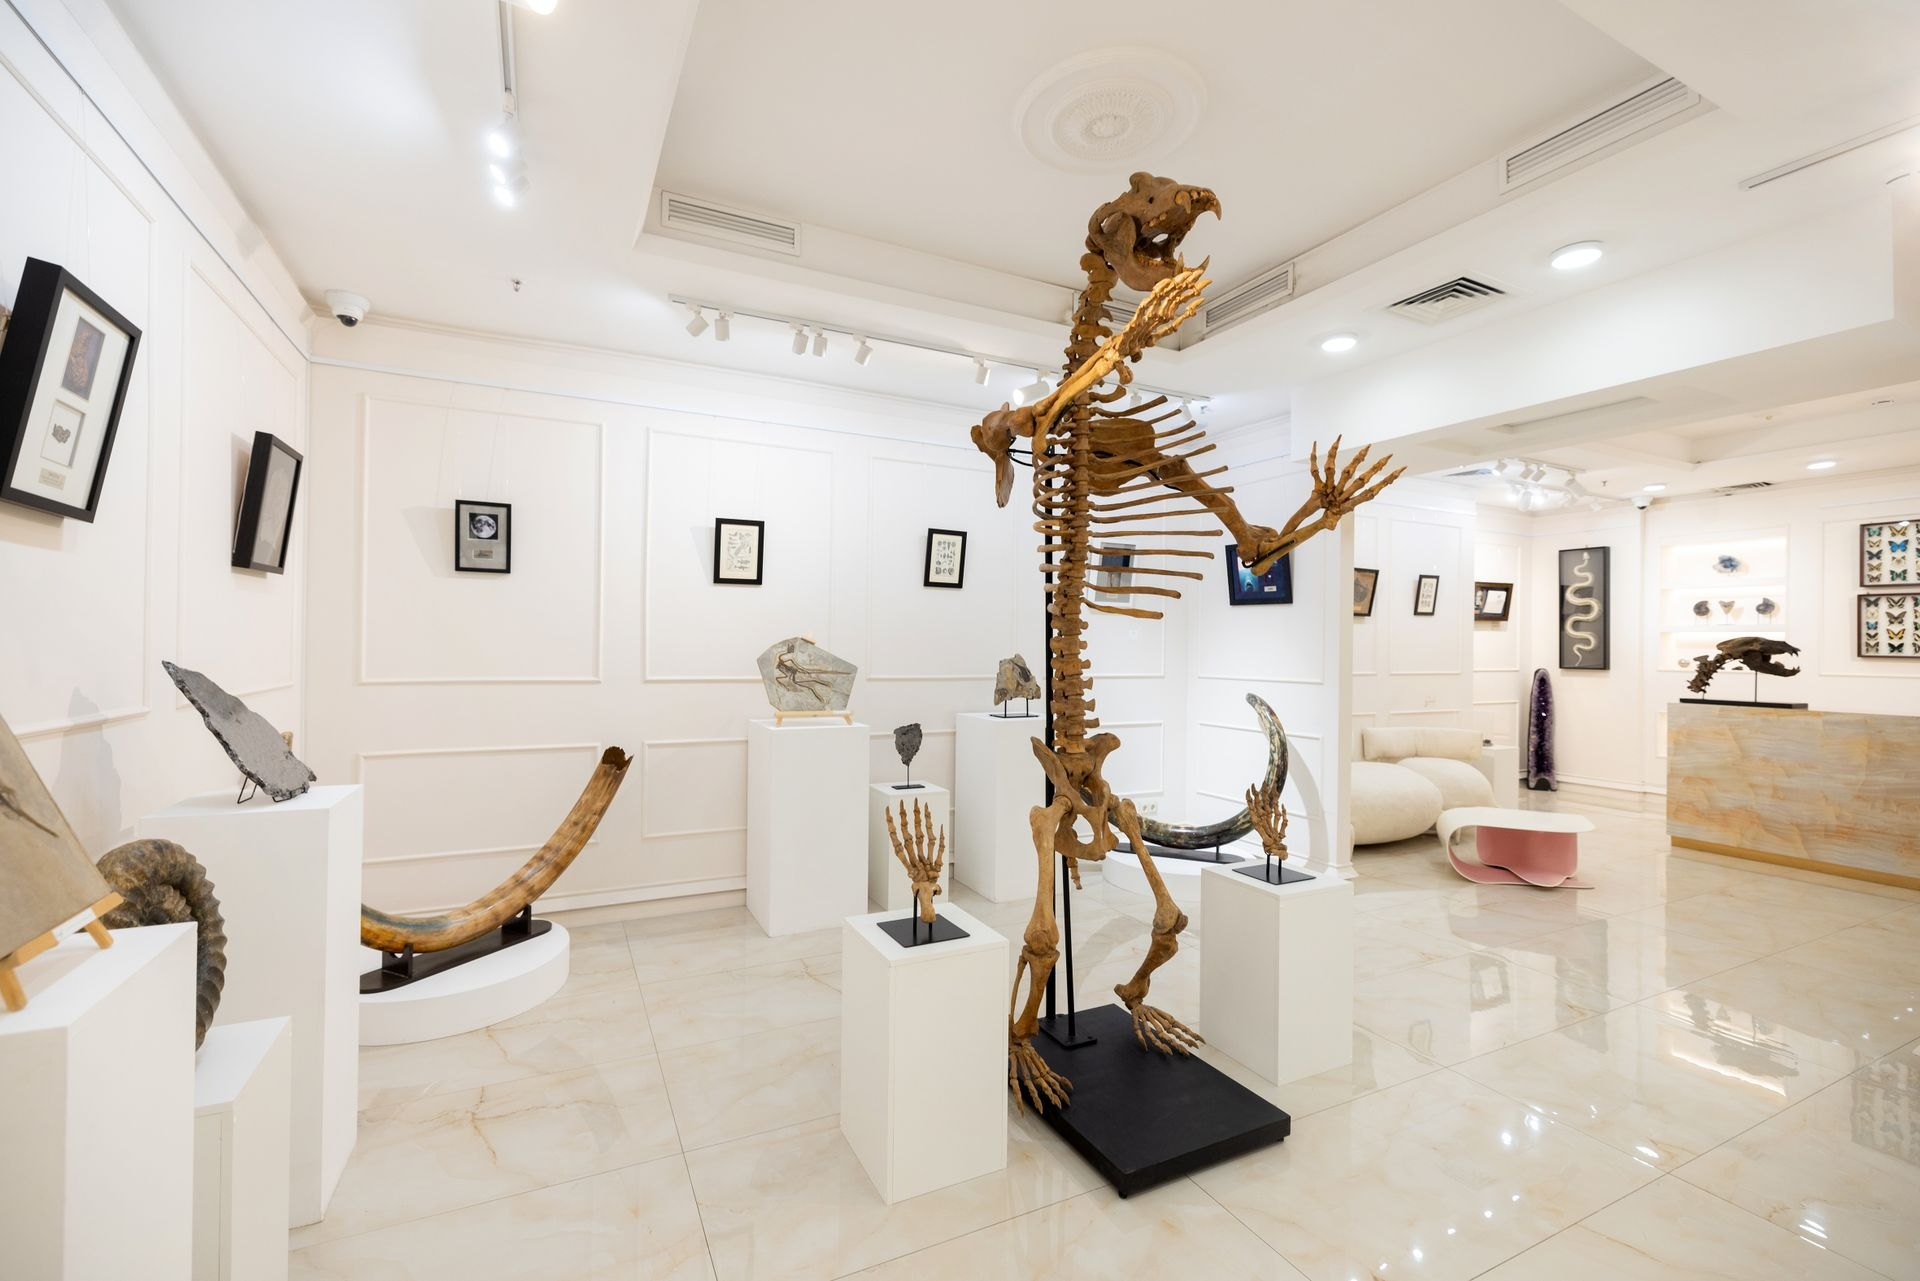
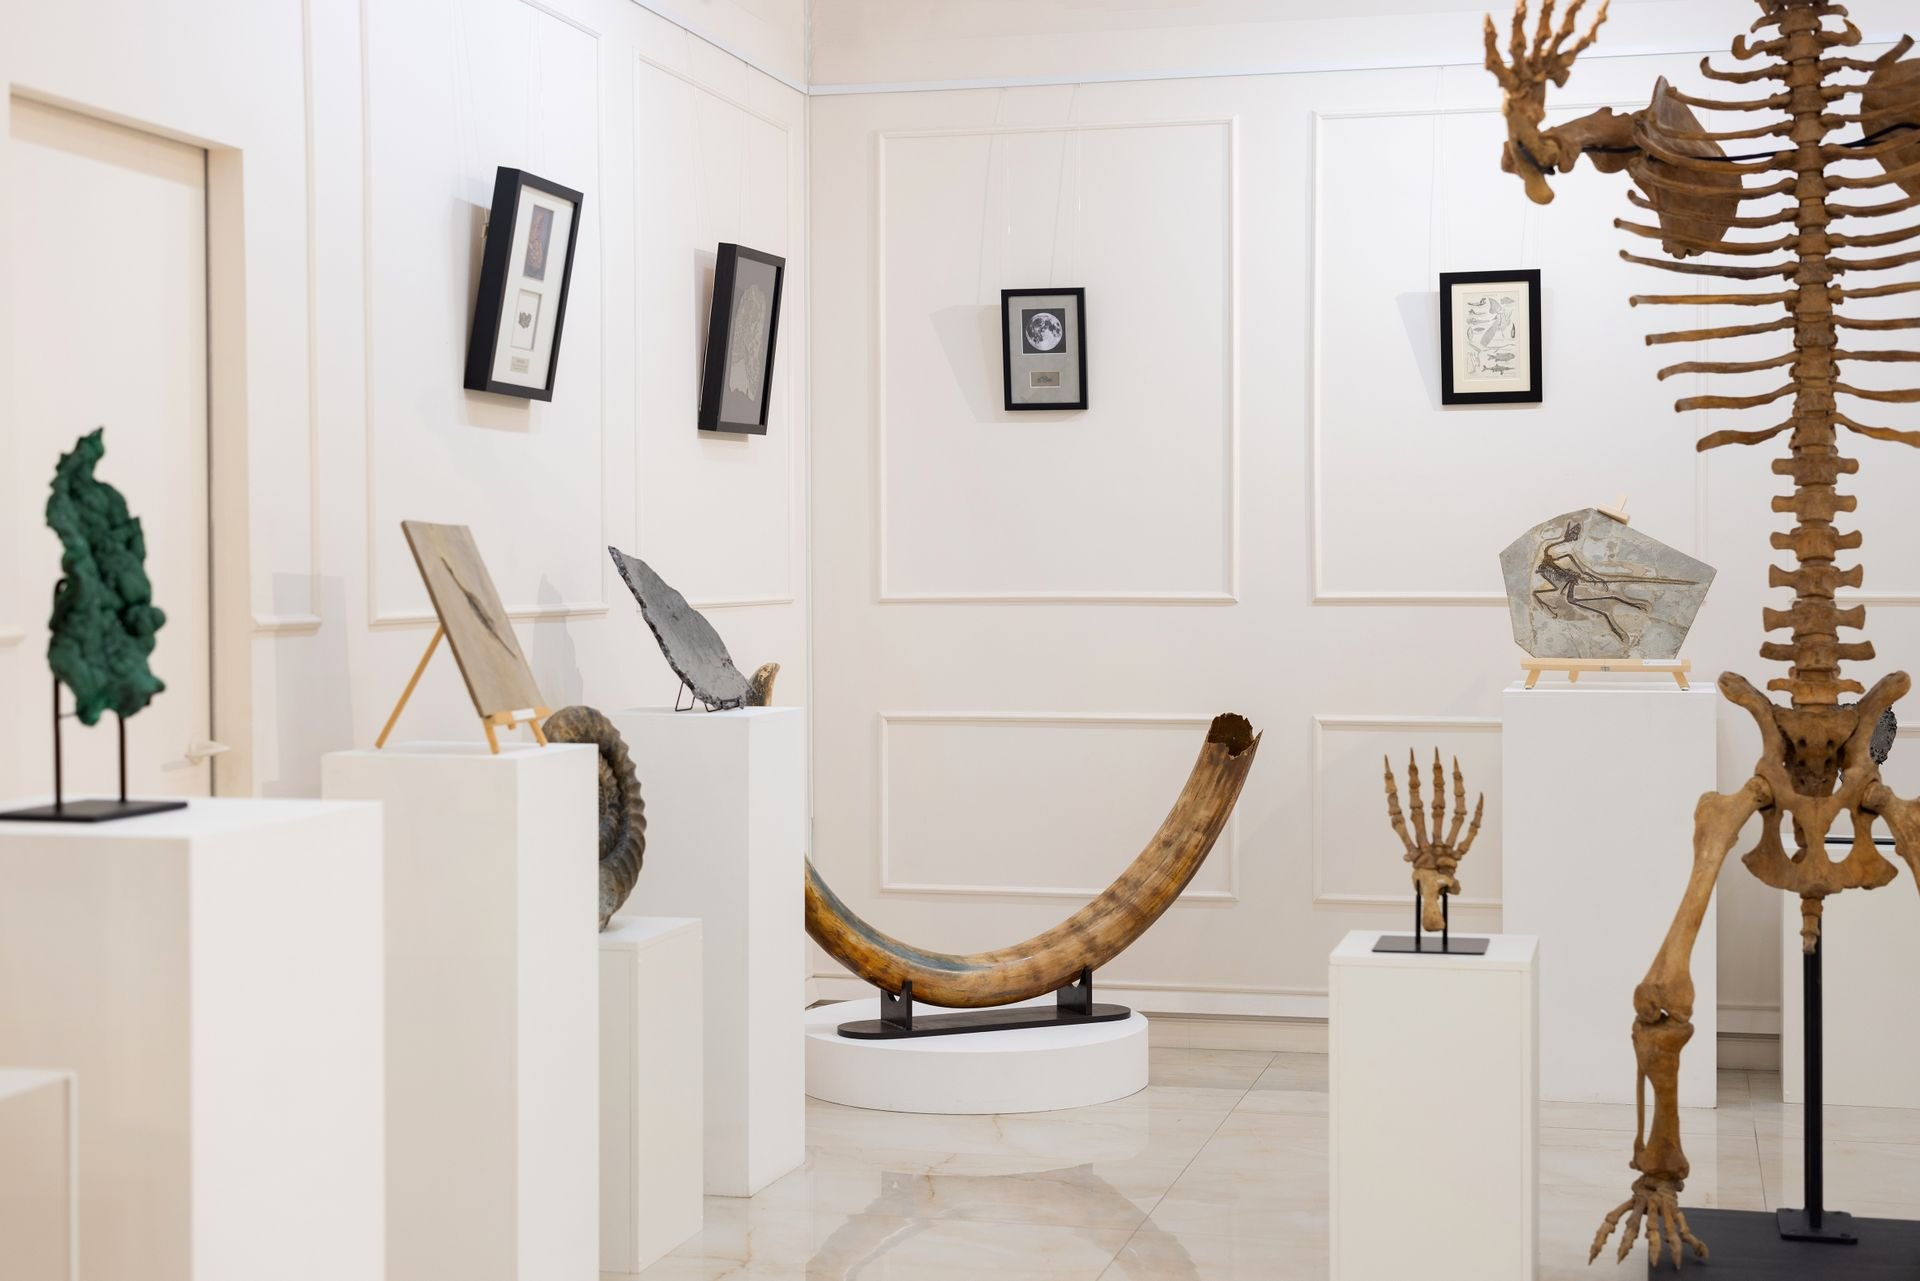
Хиро «Дом Relictum» — кадр зала с бивнем мамонта

diff --git a/02_site_v1_gallery/maison.html b/02_site_v1_gallery/maison.html
@@ -51,7 +51,7 @@
 </nav>
 
 <header class="hero" style="height:100svh;min-height:600px">
-  <div class="hero-media"><img src="../shared/img/gal_yakimanka_hero.jpg" alt="Зал дома Relictum: пещерный медведь и экспонаты коллекции"></div>
+  <div class="hero-media"><img src="../shared/img/gal_yakimanka_hero.jpg" alt="Зал дома Relictum: бивень мамонта и экспонаты на постаментах"></div>
   <div class="hero-content">
     <div class="label reveal">Дом Relictum</div>
     <h1 class="reveal" style="font-size:clamp(42px,5.4vw,84px)">Галерея редких<br>свидетельств <em>времени</em></h1>
@@ -85,7 +85,7 @@
     <div class="gal">
       <div class="media reveal" style="margin-bottom:14px"><img src="../shared/img/gal_yakimanka_1.jpg" alt="Зал дома Relictum: пещерный медведь, бивни мамонта и пситтакозавр" loading="lazy" decoding="async"></div>
       <div style="display:grid;grid-template-columns:repeat(auto-fit,minmax(280px,1fr));gap:14px">
-        <div class="media reveal" style="margin:0"><img src="../shared/img/gal_yakimanka_2.jpg" alt="Зал с бивнем мамонта, аммонитами и плитами с окаменелостями" loading="lazy" decoding="async"></div>
+        <div class="media reveal" style="margin:0"><img src="../shared/img/gal_yakimanka_3.jpg" alt="Пещерный медведь в центре зала, вокруг — бивни и аммониты" loading="lazy" decoding="async"></div>
         <div class="media reveal" style="margin:0"><img src="../shared/img/gal_yakimanka_8.jpg" alt="Зал дома: череп пещерного медведя на консоли, в глубине — скелет" loading="lazy" decoding="async"></div>
         <div class="media reveal" style="margin:0"><img src="../shared/img/gal_yakimanka_4.jpg" alt="Скелет дромеозаврида в стеклянной витрине" loading="lazy" decoding="async"></div>
         <div class="media reveal" style="margin:0"><img src="../shared/img/gal_yakimanka_5.jpg" alt="Скелет пситтакозавра на консоли у рельефной стены" loading="lazy" decoding="async"></div>
